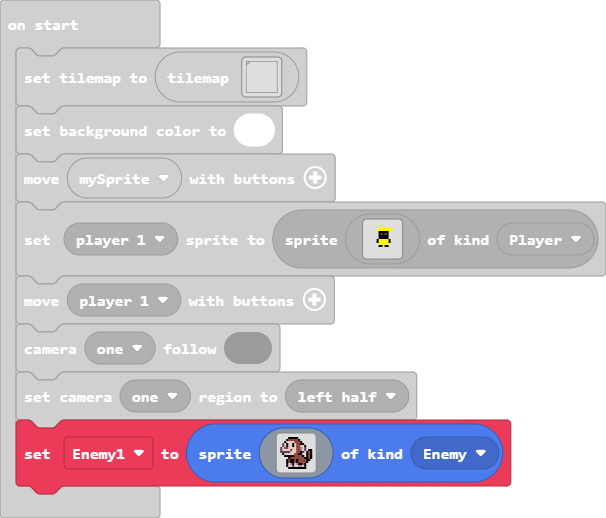
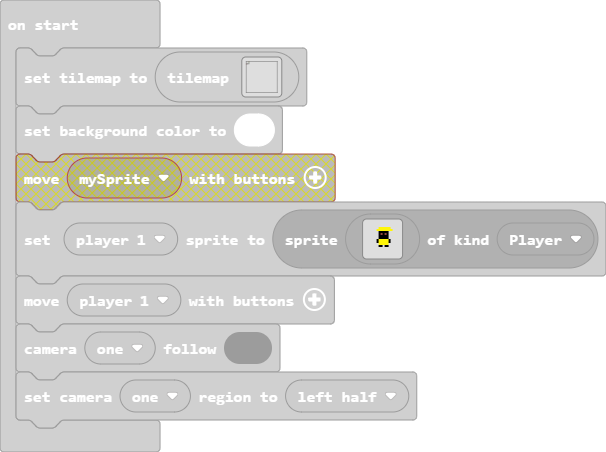
Restore '1/18/2024, 12:29:54 PM Update main.blocks, main.ts'

diff --git a/main.ts b/main.ts
@@ -1,6 +1,6 @@
 tiles.setCurrentTilemap(tilemap`level1`)
 scene.setBackgroundColor(1)
-let mySprite = sprites.create(img`
+mp.setPlayerSprite(mp.playerSelector(mp.PlayerNumber.One), sprites.create(img`
     . . . . . . . . . . . . . . . . 
     . . . . . . . . . . . . . . . . 
     . . . . . . 5 5 5 5 5 5 . . . . 
@@ -17,24 +17,7 @@ let mySprite = sprites.create(img`
     . . . . . . . . . . . . . . . . 
     . . . . . . . . . . . . . . . . 
     . . . . . . . . . . . . . . . . 
-    `, SpriteKind.Player)
-splitScreen.cameraFollowSprite(splitScreen.Camera.Camera1, mySprite)
+    `, SpriteKind.Player))
+mp.moveWithButtons(mp.playerSelector(mp.PlayerNumber.One))
+splitScreen.cameraFollowSprite(splitScreen.Camera.Camera1, null)
 splitScreen.setCameraRegion(splitScreen.Camera.Camera1, splitScreen.CameraRegion.VerticalLeftHalf)
-let Enemy1 = sprites.create(img`
-    . . . . f f f f f . . . . . . . 
-    . . . f e e e e e f . . . . . . 
-    . . f d d d d e e e f . . . . . 
-    . c d f d d f d e e f f . . . . 
-    . c d f d d f d e e d d f . . . 
-    c d e e d d d d e e b d c . . . 
-    c d d d d c d d e e b d c . f f 
-    c c c c c d d d e e f c . f e f 
-    . f d d d d d e e f f . . f e f 
-    . . f f f f f e e e e f . f e f 
-    . . . . f e e e e e e e f f e f 
-    . . . f e f f e f e e e e f f . 
-    . . . f e f f e f e e e e f . . 
-    . . . f d b f d b f f e f . . . 
-    . . . f d d c d d b b d f . . . 
-    . . . . f f f f f f f f f . . . 
-    `, SpriteKind.Enemy)
